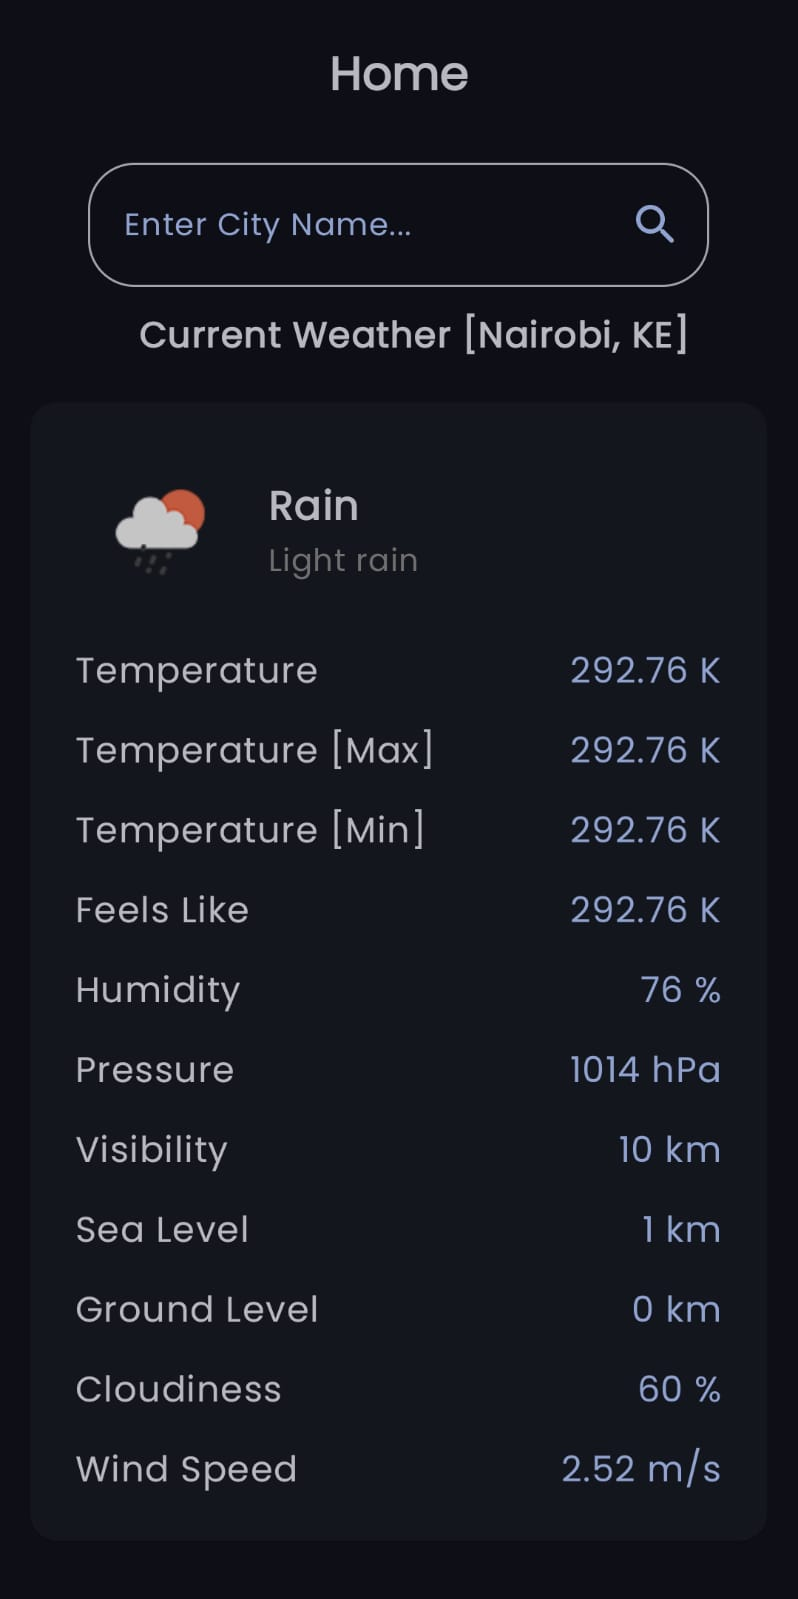
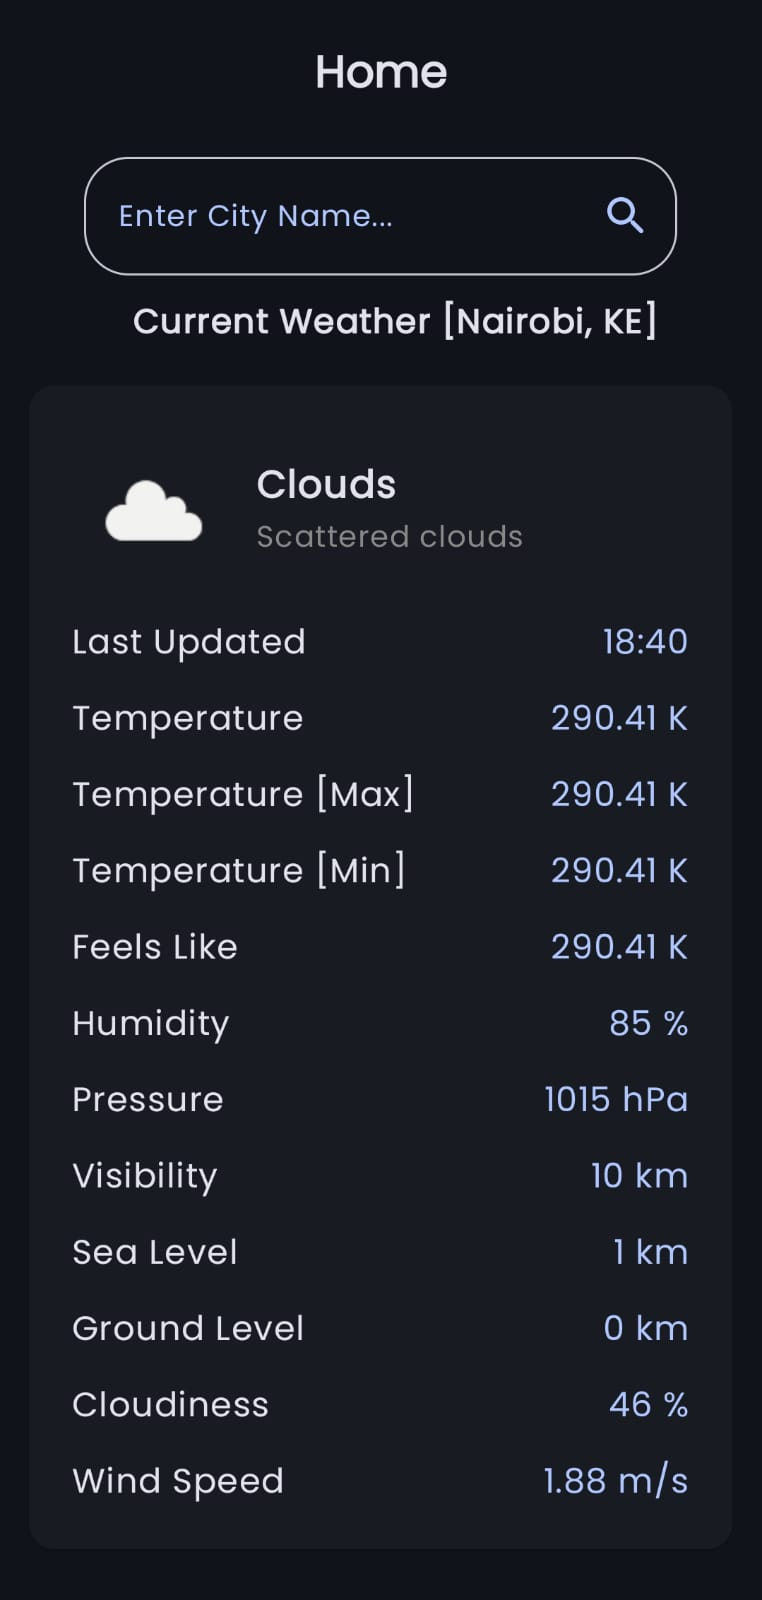
Refine the project's functionalities...

diff --git a/home/ui/src/main/java/emmanuelmuturia/home/ui/screen/HomeScreen.kt b/home/ui/src/main/java/emmanuelmuturia/home/ui/screen/HomeScreen.kt
@@ -15,6 +15,7 @@
  */
 package emmanuelmuturia.home.ui.screen
 
+import android.widget.Toast
 import androidx.compose.animation.AnimatedVisibility
 import androidx.compose.foundation.clickable
 import androidx.compose.foundation.layout.Arrangement
@@ -60,8 +61,6 @@ import androidx.compose.ui.text.style.TextAlign
 import androidx.compose.ui.unit.dp
 import androidx.compose.ui.unit.sp
 import androidx.lifecycle.compose.collectAsStateWithLifecycle
-import coil3.compose.AsyncImage
-import coil3.request.ImageRequest
 import com.bumptech.glide.integration.compose.ExperimentalGlideComposeApi
 import com.bumptech.glide.integration.compose.GlideImage
 import emmanuelmuturia.home.data.model.forecast.ForecastWeatherItem
@@ -76,7 +75,7 @@ fun HomeScreen(
     onSearchCity: (String) -> Unit,
 ) {
     val homeScreenUIState: HomeScreenUIState by
-        homeScreenViewModel.homeScreenUIState.collectAsStateWithLifecycle()
+    homeScreenViewModel.homeScreenUIState.collectAsStateWithLifecycle()
 
     Scaffold(
         modifier = modifier.fillMaxSize(),
@@ -101,9 +100,6 @@ fun HomeScreen(
                 colors = TopAppBarDefaults.topAppBarColors(containerColor = MaterialTheme.colorScheme.background),
             )
         },
-        bottomBar = {
-            // KebuBottomNavigationBar()
-        },
     ) { paddingValues ->
         HomeScreenContent(
             modifier = Modifier.padding(paddingValues = paddingValues),
@@ -122,15 +118,26 @@ fun HomeScreenContent(
     var citySearchQuery by rememberSaveable { mutableStateOf(value = "") }
 
     AnimatedVisibility(visible = homeScreenUIState.isLoading) {
-        CircularProgressIndicator()
+        Box(
+            modifier = Modifier
+                .fillMaxSize(),
+            contentAlignment = Alignment.Center
+        ) {
+            CircularProgressIndicator(
+                color = MaterialTheme.colorScheme.onBackground,
+                strokeWidth = 3.dp,
+                trackColor = MaterialTheme.colorScheme.background
+            )
+        }
     }
 
     AnimatedVisibility(visible = homeScreenUIState.error != null) {
-        Text(text = homeScreenUIState.error ?: "")
+        val context = LocalContext.current
+        Toast.makeText(context, "${homeScreenUIState.error}", Toast.LENGTH_LONG).show()
     }
 
     AnimatedVisibility(
-        visible = homeScreenUIState.currentCityWeather != null,
+        visible = !homeScreenUIState.isLoading,
     ) {
         LazyColumn(
             modifier = modifier.fillMaxSize(),
@@ -265,8 +272,9 @@ private fun CurrentCityWeatherCard(homeScreenUIState: HomeScreenUIState) {
                 ) {
                     GlideImage(
                         model =
-                            "https://openweathermap.org/img/wn/${currentCityWeather.
-                            currentWeather.first().icon}@2x.png",
+                            "https://openweathermap.org/img/wn/${
+                                currentCityWeather.currentWeather.first().icon
+                            }@2x.png",
                         contentDescription = "Weather Icon",
                         contentScale = ContentScale.Crop,
                     )
@@ -285,6 +293,10 @@ private fun CurrentCityWeatherCard(homeScreenUIState: HomeScreenUIState) {
                 }
             }
 
+            CurrentWeatherDetailRow(
+                title = "Last Updated",
+                value = currentCityWeather.lastUpdated,
+            )
             CurrentWeatherDetailRow(
                 title = "Temperature",
                 value = "${currentCityWeather.currentMain.temp} K",
@@ -391,8 +403,9 @@ fun ForecastWeatherCard(
 
                     GlideImage(
                         model =
-                            "https://openweathermap.org/img/wn/${forecastWeatherItem.
-                                forecastWeather.first().icon}@2x.png",
+                            "https://openweathermap.org/img/wn/${
+                                forecastWeatherItem.forecastWeather.first().icon
+                            }@2x.png",
                         contentDescription = "Weather Icon",
                         contentScale = ContentScale.Crop,
                     )
@@ -411,6 +424,14 @@ fun ForecastWeatherCard(
                 }
             }
 
+            ForecastWeatherDetailRow(
+                title = "Last Updated",
+                value = forecastWeatherItem.lastUpdated,
+            )
+            ForecastWeatherDetailRow(
+                title = "Temperature",
+                value = "${forecastWeatherItem.forecastMain.temp} K",
+            )
             ForecastWeatherDetailRow(
                 title = "Temperature",
                 value = "${forecastWeatherItem.forecastMain.temp} K",

diff --git a/home/ui/src/main/java/emmanuelmuturia/home/ui/viewmodel/HomeScreenViewModel.kt b/home/ui/src/main/java/emmanuelmuturia/home/ui/viewmodel/HomeScreenViewModel.kt
@@ -30,45 +30,18 @@ class HomeScreenViewModel(
 ) : ViewModel() {
     val homeScreenUIState = MutableStateFlow(value = HomeScreenUIState())
 
-    // private val citySearchQuery = MutableStateFlow(value = "")
-
     init {
         getCurrentCityWeather(cityName = homeScreenUIState.value.cityName)
         getForecastCityWeather(cityName = homeScreenUIState.value.cityName)
-        // observeCitySearchQuery()
     }
 
     fun searchNewCity(cityName: String) {
         homeScreenUIState.value.cityName = cityName
-        getCurrentCityWeather(cityName = cityName)
-        getForecastCityWeather(cityName = cityName)
+        getWeatherByCityName(cityName = cityName)
     }
 
-    /*fun onCityNameChanged(cityName: String) {
-        citySearchQuery.value = cityName
-        homeScreenUIState.update {
-            it.copy(
-                cityName = cityName
-            )
-        }
-        Timber.tag("City Name").d(homeScreenUIState.value.cityName)
-    }*/
-
-    /*@OptIn(FlowPreview::class)
-    private fun observeCitySearchQuery() {
-        viewModelScope.launch {
-            citySearchQuery.debounce(
-                timeoutMillis = 700
-            ).distinctUntilChanged()
-                .collectLatest { cityName ->
-                    getCurrentCityWeather(city = cityName)
-                    getForecastCityWeather(city = cityName)
-                }
-        }
-    }*/
-
     fun getCurrentCityWeather(cityName: String) {
-        homeScreenUIState.value = HomeScreenUIState(isLoading = true)
+        homeScreenUIState.update { it.copy(isLoading = true) }
         viewModelScope.launch {
             homeRepository.getCurrentCityWeather(cityName = cityName).asResult().collect { result ->
 
@@ -96,7 +69,7 @@ class HomeScreenViewModel(
     }
 
     fun getForecastCityWeather(cityName: String) {
-        homeScreenUIState.value = HomeScreenUIState(isLoading = true)
+        homeScreenUIState.update { it.copy(isLoading = true) }
         viewModelScope.launch {
             homeRepository.getForecastCityWeather(cityName = cityName).asResult().collect { result ->
 
@@ -120,6 +93,14 @@ class HomeScreenViewModel(
                     }
                 }
             }
+        }
+    }
+
+    private fun getWeatherByCityName(cityName: String) {
+        viewModelScope.launch {
+            homeScreenUIState.update { it.copy(isLoading = true) }
+            homeRepository.getWeatherByCityName(cityName = cityName)
+            homeScreenUIState.update { it.copy(isLoading = false) }
         }
     }
 }

diff --git a/home/source/src/main/java/emmanuelmuturia/home/source/local/entity/forecast/ForecastWeatherItemEntity.kt b/home/source/src/main/java/emmanuelmuturia/home/source/local/entity/forecast/ForecastWeatherItemEntity.kt
@@ -15,24 +15,36 @@
  */
 package emmanuelmuturia.home.source.local.entity.forecast
 
+import androidx.room.ColumnInfo
 import androidx.room.Embedded
 import kotlinx.serialization.Serializable
+import java.text.SimpleDateFormat
+import java.util.Date
+import java.util.Locale
 
 @Serializable
 data class ForecastWeatherItemEntity(
     @Embedded(prefix = "forecast_clouds_")
-    val forecastCloudsEntity: emmanuelmuturia.home.source.local.entity.forecast.ForecastCloudsEntity,
+    val forecastCloudsEntity: ForecastCloudsEntity,
     val dt: Int,
     val dtTxt: String,
     @Embedded(prefix = "forecast_main_")
-    val forecastMainEntity: emmanuelmuturia.home.source.local.entity.forecast.ForecastMainEntity,
+    val forecastMainEntity: ForecastMainEntity,
     val pop: Double,
     @Embedded(prefix = "forecast_rain_")
-    val forecastRainEntity: emmanuelmuturia.home.source.local.entity.forecast.ForecastRainEntity,
+    val forecastRainEntity: ForecastRainEntity,
     @Embedded(prefix = "forecast_sys_")
-    val forecastSysEntity: emmanuelmuturia.home.source.local.entity.forecast.ForecastSysEntity,
+    val forecastSysEntity: ForecastSysEntity,
     val visibility: Int,
-    val forecastWeatherEntity: List<emmanuelmuturia.home.source.local.entity.forecast.ForecastWeatherEntity>,
+    val forecastWeatherEntity: List<ForecastWeatherEntity>,
     @Embedded(prefix = "forecast_wind_")
-    val forecastWindEntity: emmanuelmuturia.home.source.local.entity.forecast.ForecastWindEntity,
+    val forecastWindEntity: ForecastWindEntity,
+    @ColumnInfo(name = "last_updated")
+    val lastUpdated: String = formatLastUpdatedTime(lastUpdatedTime = System.currentTimeMillis()),
 )
+
+private fun formatLastUpdatedTime(lastUpdatedTime: Long): String {
+    val date = Date(lastUpdatedTime)
+    val formatter = SimpleDateFormat("HH:mm", Locale.getDefault())
+    return formatter.format(date)
+}

diff --git a/home/source/src/main/java/emmanuelmuturia/home/source/local/source/HomeLocalSourceImplementation.kt b/home/source/src/main/java/emmanuelmuturia/home/source/local/source/HomeLocalSourceImplementation.kt
@@ -32,9 +32,6 @@ class HomeLocalSourceImplementation(
 ) : HomeLocalSource {
     override suspend fun getCurrentCityWeather(cityName: String): Flow<CurrentCityWeatherEntity?> {
         return withContext(dispatcher) {
-            async {
-                homeRemoteSource.getCurrentWeather(cityName = cityName)
-            }.await()
             craftSiliconDao.getCurrentWeather()
         }.onEach { cachedWeather ->
             if (cachedWeather == null) {
@@ -45,14 +42,22 @@ class HomeLocalSourceImplementation(
 
     override suspend fun getForecastCityWeather(cityName: String): Flow<ForecastCityWeatherEntity?> {
         return withContext(dispatcher) {
-            async {
-                homeRemoteSource.getForecastWeather(cityName = cityName)
-            }.await()
             craftSiliconDao.getForecastWeather()
         }.onEach { cachedForecast ->
             if (cachedForecast == null) {
                 homeRemoteSource.getForecastWeather(cityName = cityName)
             }
+        }
+    }
+
+    override suspend fun getWeatherByCityName(cityName: String) {
+        withContext(context = dispatcher) {
+            async {
+                homeRemoteSource.getCurrentWeather(cityName = cityName)
+                homeRemoteSource.getForecastWeather(cityName = cityName)
+            }.await()
+            craftSiliconDao.getCurrentWeather()
+            craftSiliconDao.getForecastWeather()
         }
     }
 }

diff --git a/home/source/src/main/java/emmanuelmuturia/home/source/remote/source/HomeRemoteSourceImplementation.kt b/home/source/src/main/java/emmanuelmuturia/home/source/remote/source/HomeRemoteSourceImplementation.kt
@@ -21,6 +21,9 @@ import emmanuelmuturia.home.source.local.entity.forecast.ForecastCityWeatherEnti
 import emmanuelmuturia.home.source.remote.api.OpenWeatherAPI
 import kotlinx.coroutines.CoroutineDispatcher
 import kotlinx.coroutines.withContext
+import java.text.SimpleDateFormat
+import java.util.Date
+import java.util.Locale
 
 class HomeRemoteSourceImplementation(
     private val openWeatherAPI: OpenWeatherAPI,
@@ -47,7 +50,7 @@ class HomeRemoteSourceImplementation(
                             visibility = response.body()!!.visibility,
                             currentWeatherEntity = response.body()!!.currentWeatherDTO.map { weatherDTO -> weatherDTO.toWeatherEntity() },
                             currentWindEntity = response.body()!!.currentWindDTO.toWindEntity(),
-                            lastUpdated = System.currentTimeMillis(),
+                            lastUpdated = formatLastUpdatedTime(lastUpdatedTime = System.currentTimeMillis()),
                         ),
                 )
             }
@@ -74,4 +77,10 @@ class HomeRemoteSourceImplementation(
             }
         }
     }
+}
+
+private fun formatLastUpdatedTime(lastUpdatedTime: Long): String {
+    val date = Date(lastUpdatedTime)
+    val formatter = SimpleDateFormat("HH:mm", Locale.getDefault())
+    return formatter.format(date)
 }

diff --git a/app/src/main/java/emmanuelmuturia/craftsilicon/main/activity/MainActivity.kt b/app/src/main/java/emmanuelmuturia/craftsilicon/main/activity/MainActivity.kt
@@ -28,13 +28,14 @@ class MainActivity : ComponentActivity() {
     override fun onCreate(savedInstanceState: Bundle?) {
         super.onCreate(savedInstanceState)
         val homeScreenViewModel: HomeScreenViewModel by inject<HomeScreenViewModel>()
-        installSplashScreen().apply {
+        /*installSplashScreen().apply {
             setKeepOnScreenCondition(
                 condition = {
                     homeScreenViewModel.homeScreenUIState.value.isLoading
                 }
             )
-        }
+        }*/
+        installSplashScreen()
         enableEdgeToEdge()
         setContent {
             CraftSiliconNavHost()

diff --git a/home/data/src/main/java/emmanuelmuturia/home/data/repository/HomeRepositoryImplementation.kt b/home/data/src/main/java/emmanuelmuturia/home/data/repository/HomeRepositoryImplementation.kt
@@ -73,9 +73,16 @@ class HomeRepositoryImplementation(
                                 forecastCityWeatherEntityList.toForecastWeatherItem()
                             },
                         message = forecastCityWeatherEntity.message,
+                        lastUpdated = forecastCityWeatherEntity.list.first().lastUpdated
                     )
                 }
             }
+        }
+    }
+
+    override suspend fun getWeatherByCityName(cityName: String) {
+        withContext(context = dispatcher) {
+            homeLocalSource.getWeatherByCityName(cityName = cityName)
         }
     }
 }

diff --git a/home/source/src/main/java/emmanuelmuturia/home/source/local/entity/forecast/ForecastCityWeatherEntity.kt b/home/source/src/main/java/emmanuelmuturia/home/source/local/entity/forecast/ForecastCityWeatherEntity.kt
@@ -25,12 +25,12 @@ data class ForecastCityWeatherEntity(
     @PrimaryKey
     val forecastCityWeatherId: Int = 0,
     @Embedded(prefix = "city_")
-    val forecastCityEntity: emmanuelmuturia.home.source.local.entity.forecast.ForecastCityEntity,
+    val forecastCityEntity: ForecastCityEntity,
     @ColumnInfo(name = "cnt")
     val cnt: Int,
     @ColumnInfo(name = "cod")
     val cod: String,
-    val list: List<emmanuelmuturia.home.source.local.entity.forecast.ForecastWeatherItemEntity>,
+    val list: List<ForecastWeatherItemEntity>,
     @ColumnInfo(name = "message")
     val message: Int,
 )

diff --git a/home/data/src/main/java/emmanuelmuturia/home/data/model/forecast/ForecastWeatherItem.kt b/home/data/src/main/java/emmanuelmuturia/home/data/model/forecast/ForecastWeatherItem.kt
@@ -28,6 +28,7 @@ data class ForecastWeatherItem(
     val visibility: Int,
     val forecastWeather: List<ForecastWeather>,
     val forecastWind: ForecastWind,
+    val lastUpdated: String,
 )
 
 fun ForecastWeatherItemEntity.toForecastWeatherItem(): ForecastWeatherItem {
@@ -75,5 +76,6 @@ fun ForecastWeatherItemEntity.toForecastWeatherItem(): ForecastWeatherItem {
                 gust = forecastWindEntity.gust,
                 speed = forecastWindEntity.speed,
             ),
+        lastUpdated = lastUpdated
     )
 }

diff --git a/home/source/src/main/java/emmanuelmuturia/home/source/local/source/HomeLocalSource.kt b/home/source/src/main/java/emmanuelmuturia/home/source/local/source/HomeLocalSource.kt
@@ -23,4 +23,6 @@ interface HomeLocalSource {
     suspend fun getCurrentCityWeather(cityName: String): Flow<CurrentCityWeatherEntity?>
 
     suspend fun getForecastCityWeather(cityName: String): Flow<ForecastCityWeatherEntity?>
+
+    suspend fun getWeatherByCityName(cityName: String)
 }

diff --git a/home/data/src/main/java/emmanuelmuturia/home/data/repository/HomeRepository.kt b/home/data/src/main/java/emmanuelmuturia/home/data/repository/HomeRepository.kt
@@ -23,4 +23,6 @@ interface HomeRepository {
     suspend fun getCurrentCityWeather(cityName: String): Flow<CurrentCityWeather?>
 
     suspend fun getForecastCityWeather(cityName: String): Flow<ForecastCityWeather?>
+
+    suspend fun getWeatherByCityName(cityName: String)
 }

diff --git a/home/source/src/main/java/emmanuelmuturia/home/source/local/entity/current/CurrentCityWeatherEntity.kt b/home/source/src/main/java/emmanuelmuturia/home/source/local/entity/current/CurrentCityWeatherEntity.kt
@@ -50,5 +50,5 @@ data class CurrentCityWeatherEntity(
     @Embedded(prefix = "wind_")
     val currentWindEntity: CurrentWindEntity,
     @ColumnInfo(name = "lastUpdated")
-    val lastUpdated: Long,
+    val lastUpdated: String,
 )
